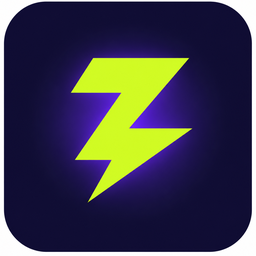
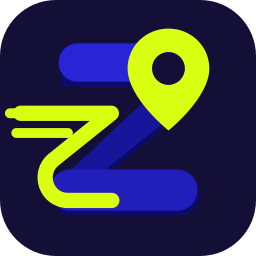
feat(brand): padroniza nova identidade visual Zuvvi

diff --git a/src/routes/index.tsx b/src/routes/index.tsx
@@ -6,6 +6,7 @@ import heroMoto from "@/assets/hero-moto.jpg";
 import { User, MapPin, Clock, Star, Shield, Bike, FileText, CreditCard, LogOut, ChevronRight, LocateFixed, AlertTriangle, Loader2, Trash2, X, ChevronLeft, Plus } from "lucide-react";
 import { supabase } from "@/integrations/supabase/client";
 import { useEffect, useRef, useState } from "react";
+import { ZuvviLogo } from "@/components/brand/ZuvviLogo";
 import { getMapboxToken, checkCityAvailability, getReverseGeocoding } from "@/lib/user.functions";
 import { listarFavoritos, criarFavorito, excluirFavorito } from "@/lib/favoritos.functions";
 import { listarDestinosRecentes } from "@/lib/recentes.functions";
@@ -221,7 +222,7 @@ function HomePassageiro({ nome }: { nome: string }) {
               </div>
               <div>
                 <p className="text-[10px] text-muted-foreground uppercase tracking-widest">Olá, {nome.split(" ")[0]}</p>
-                <h1 className="text-sm font-bold">Zuvvi Moto</h1>
+                <ZuvviLogo surface="dark" className="h-auto w-[82px]" />
               </div>
             </div>
             <button 
@@ -914,9 +915,7 @@ function LandingPage() {
       {/* Nav */}
       <header className="sticky top-0 z-40 border-b border-border/60 bg-background/80 backdrop-blur-md">
         <div className="mx-auto flex h-16 max-w-6xl items-center justify-between px-5">
-          <span className="font-display font-bold text-2xl tracking-tight" style={{ letterSpacing: "-0.04em" }}>
-            <span className="volt-text">Zu</span>vvi
-          </span>
+          <ZuvviLogo surface="dark" className="h-auto w-[116px]" />
           <div className="flex items-center gap-4">
             <Link to="/auth/login" className="text-sm font-bold text-muted-foreground hover:text-foreground transition-colors">Entrar</Link>
             <Link 
@@ -965,7 +964,7 @@ function LandingPage() {
       <footer className="border-t border-border/60 py-12 bg-black/20">
         <div className="mx-auto max-w-6xl px-5 flex flex-col md:flex-row justify-between items-center gap-8">
           <div className="flex flex-col items-center md:items-start gap-4">
-             <span className="font-display font-bold text-2xl tracking-tight"><span className="volt-text">Zu</span>vvi</span>
+             <ZuvviLogo surface="dark" className="h-auto w-[128px]" />
              <p className="text-xs text-muted-foreground">© {new Date().getFullYear()} Zuvvi Mobilidade · Brasil</p>
           </div>
           <div className="flex items-center gap-8 text-xs font-bold uppercase tracking-widest text-muted-foreground">

diff --git a/src/routes/auth.tsx b/src/routes/auth.tsx
@@ -1,4 +1,5 @@
 import { createFileRoute, Outlet } from '@tanstack/react-router';
+import { ZuvviLogo } from '@/components/brand/ZuvviLogo';
 
 export const Route = createFileRoute('/auth')({
   component: AuthLayout,
@@ -8,13 +9,8 @@ function AuthLayout() {
   return (
     <div className="min-h-screen bg-background flex flex-col items-center justify-center p-4">
       <div className="w-full max-w-md bg-card border border-border rounded-2xl shadow-2xl p-8 zuvvi-glow">
-        <div className="mb-8 text-center">
-          <h1 className="text-4xl font-bold tracking-tighter volt-text">
-            ZUVVI
-          </h1>
-          <p className="text-muted-foreground mt-2 text-sm uppercase tracking-widest font-medium">
-            Mobilidade Urbana
-          </p>
+        <div className="mb-8 flex justify-center">
+          <ZuvviLogo surface="dark" className="h-auto w-full max-w-[240px]" />
         </div>
         <Outlet />
       </div>

diff --git a/src/routes/__root.tsx b/src/routes/__root.tsx
@@ -125,7 +125,8 @@ export const Route = createRootRouteWithContext<{ queryClient: QueryClient }>()(
         href: appCss,
       },
       { rel: "manifest", href: "/manifest.webmanifest" },
-      { rel: "icon", type: "image/png", href: "/favicon.png" },
+      { rel: "icon", type: "image/svg+xml", href: "/favicon.svg" },
+      { rel: "icon", type: "image/png", sizes: "32x32", href: "/favicon.png" },
       { rel: "apple-touch-icon", sizes: "180x180", href: "/brand/icon-180.png" },
       { rel: "apple-touch-icon", sizes: "152x152", href: "/brand/icon-152.png" },
     ],

diff --git a/src/components/brand/ZuvviLogo.tsx b/src/components/brand/ZuvviLogo.tsx
@@ -1,0 +1,17 @@
+type ZuvviLogoProps = {
+  surface?: "dark" | "light";
+  className?: string;
+};
+
+export function ZuvviLogo({
+  surface = "dark",
+  className,
+}: ZuvviLogoProps) {
+  return (
+    <img
+      src={surface === "dark" ? "/brand/zuvvi-logo-dark.svg" : "/brand/zuvvi-logo-light.svg"}
+      alt="Zuvvi"
+      className={className}
+    />
+  );
+}
